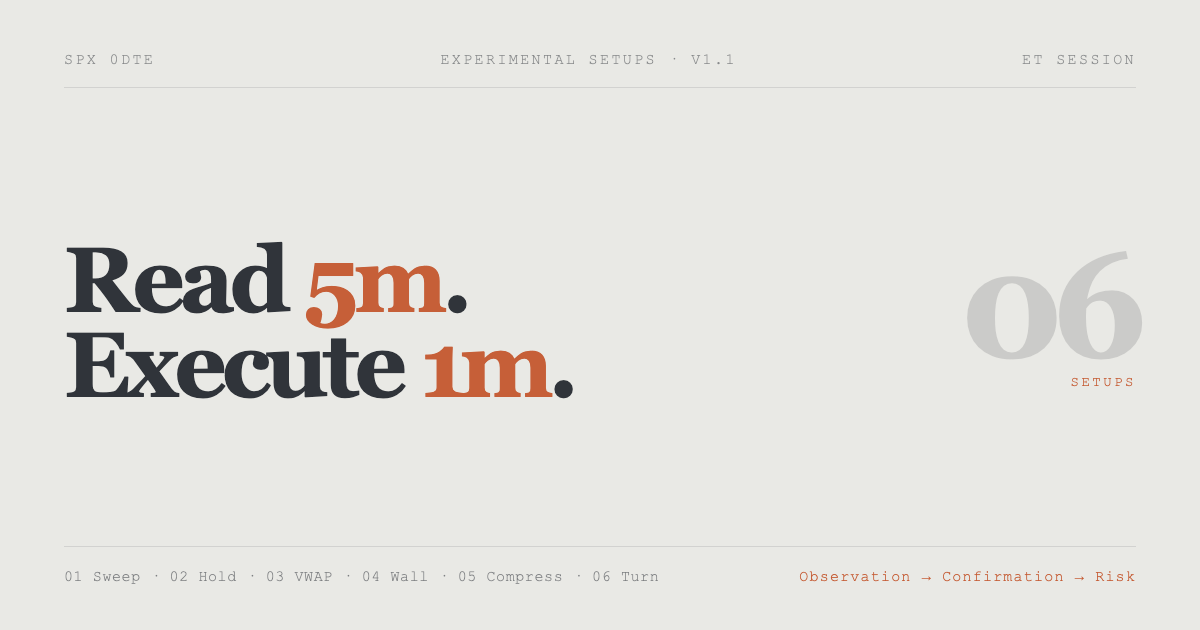
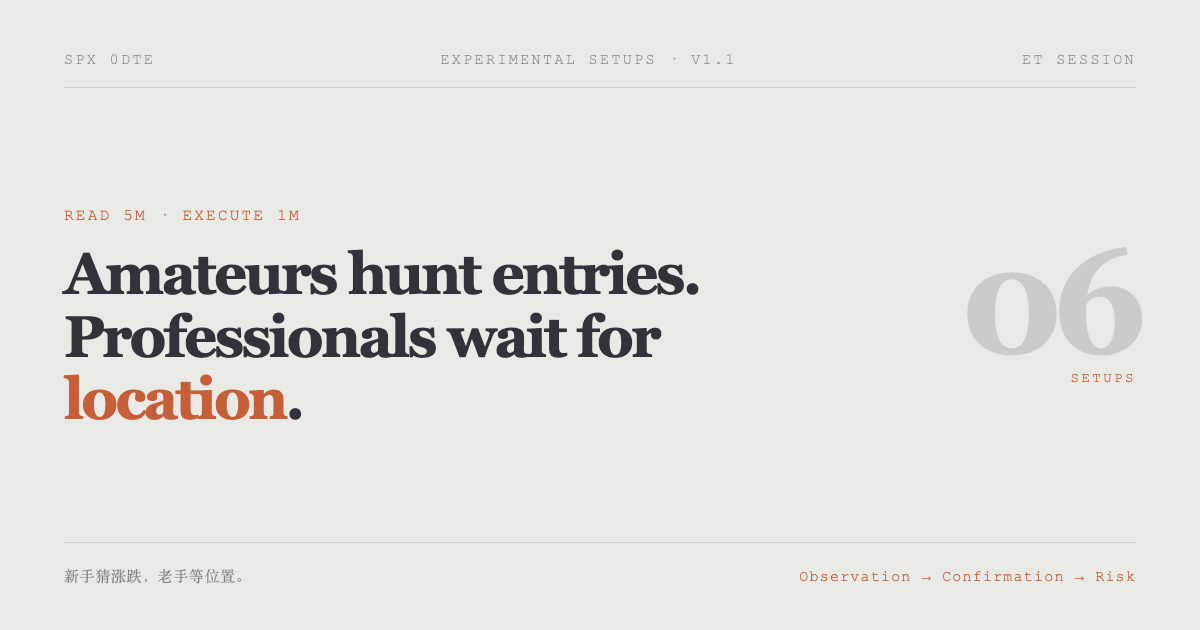
copy: put the location thesis on the cover
Use Amateurs hunt entries / 新手猜涨跌 as the hero and OG headline, and keep Read 5m. Execute 1m. as the method line.

diff --git a/scripts/og-card.html b/scripts/og-card.html
@@ -32,17 +32,25 @@
     .grid {
       flex: 1;
       display: grid;
-      grid-template-columns: 1fr 280px;
-      gap: 40px;
+      grid-template-columns: 1fr 260px;
+      gap: 36px;
       align-items: center;
-      padding-top: 12px;
+      padding-top: 8px;
+    }
+    .title p {
+      margin: 0 0 18px;
+      color: #c65f38;
+      font-family: "Courier New", Courier, monospace;
+      font-size: 16px;
+      letter-spacing: 0.14em;
     }
     h1 {
       margin: 0;
-      font-size: 92px;
+      max-width: 11.5em;
+      font-size: 58px;
       font-weight: 600;
-      letter-spacing: -0.055em;
-      line-height: 0.92;
+      letter-spacing: -0.045em;
+      line-height: 1.08;
     }
     h1 em {
       color: #c65f38;
@@ -84,6 +92,10 @@
       color: #c65f38;
       letter-spacing: 0.08em;
     }
+    .zh {
+      font-family: "Songti SC", "Iowan Old Style", "PingFang SC", Georgia, serif;
+      letter-spacing: 0.04em;
+    }
   </style>
 </head>
 <body>
@@ -93,14 +105,17 @@
     <span>ET SESSION</span>
   </div>
   <div class="grid">
-    <h1>Read <em>5m</em>.<br />Execute <em>1m</em>.</h1>
+    <div class="title">
+      <p>READ 5M · EXECUTE 1M</p>
+      <h1>Amateurs hunt entries.<br />Professionals wait for <em>location</em>.</h1>
+    </div>
     <div class="count">
       <strong>06</strong>
       <span>SETUPS</span>
     </div>
   </div>
   <div class="foot">
-    <span>01 Sweep · 02 Hold · 03 VWAP · 04 Wall · 05 Compress · 06 Turn</span>
+    <span class="zh">新手猜涨跌，老手等位置。</span>
     <span class="flow">Observation → Confirmation → Risk</span>
   </div>
 </body>

diff --git a/app/layout.tsx b/app/layout.tsx
@@ -19,22 +19,22 @@ export const metadata: Metadata = {
       url: "/",
       siteName: "SPX Setups",
       title: "SPX Setups",
-      description: "6 Experimental Setups · Observation → Confirmation → Risk",
+      description: "Amateurs hunt entries. Professionals wait for location.",
       images: [
         {
-          url: "/og.png?v=20260918",
+          url: "/og.png?v=20260918c",
           width: 1200,
           height: 630,
-          alt: "SPX Setups — Read 5m. Execute 1m.",
+          alt: "Amateurs hunt entries. Professionals wait for location.",
         },
       ],
     },
     twitter: {
       card: "summary_large_image",
       title: "SPX Setups",
-      description: "6 Experimental Setups · Observation → Confirmation → Risk",
+      description: "Amateurs hunt entries. Professionals wait for location.",
       creator: "@mm_options",
-      images: ["/og.png?v=20260918"],
+      images: ["/og.png?v=20260918c"],
     },
     icons: {
       icon: "/favicon.svg",

diff --git a/app/playbook/home-copy.ts b/app/playbook/home-copy.ts
@@ -43,8 +43,11 @@ export const setupCopyEn: Record<string, SetupSummary> = {
 export const homeCopy = {
   en: {
     heroMeta: "EXPERIMENTAL SETUPS · V1.1",
-    heroFirst: "Read",
-    heroSecond: "Execute",
+    method: "Read 5m. Execute 1m.",
+    heroFirst: "Amateurs hunt entries.",
+    heroSecondLead: "Professionals wait for ",
+    heroEm: "location",
+    heroSecondTail: ".",
     countAria: "Six experimental setups",
     countLabel: "SETUPS",
     flow: "Risk → Location → Confirmation",
@@ -55,8 +58,11 @@ export const homeCopy = {
   },
   zh: {
     heroMeta: "实验性 SETUPS · V1.1",
-    heroFirst: "先看",
-    heroSecond: "再做",
+    method: "先看 5m。再做 1m。",
+    heroFirst: "新手猜涨跌，",
+    heroSecondLead: "老手等",
+    heroEm: "位置",
+    heroSecondTail: "。",
     countAria: "六个实验性 Setup",
     countLabel: "SETUPS",
     flow: "风险 → 位置 → 确认",

diff --git a/app/playbook/page.tsx b/app/playbook/page.tsx
@@ -38,11 +38,14 @@ export default async function PlaybookPage({ searchParams }: PlaybookPageProps) 
               <span>ET SESSION</span>
             </div>
             <div className="mono-cover-grid">
-              <div className="mono-cover-title">
+              <div className="mono-cover-title thesis">
+                <p>{copy.method}</p>
                 <h1>
-                  {copy.heroFirst} <em>5m</em>.
+                  {copy.heroFirst}
                   <br />
-                  {copy.heroSecond} <em>1m</em>.
+                  {copy.heroSecondLead}
+                  <em>{copy.heroEm}</em>
+                  {copy.heroSecondTail}
                 </h1>
               </div>
               <div className="mono-cover-count" aria-label={copy.countAria}>

diff --git a/app/globals.css b/app/globals.css
@@ -679,6 +679,13 @@ a {
   line-height: 0.96;
 }
 
+.mono-cover-title.thesis h1 {
+  max-width: 11.4em;
+  font-size: clamp(2.35rem, 4.7vw, 4.2rem);
+  letter-spacing: -0.048em;
+  line-height: 1.08;
+}
+
 .mono-cover-title h1 em {
   color: var(--mono-accent);
   font-style: normal;
@@ -1687,6 +1694,10 @@ a {
 
   .mono-cover-title h1 {
     font-size: clamp(3.1rem, 16vw, 4.6rem);
+  }
+
+  .mono-cover-title.thesis h1 {
+    font-size: clamp(2.05rem, 8.4vw, 3.05rem);
   }
 
   .mono-cover-count {
